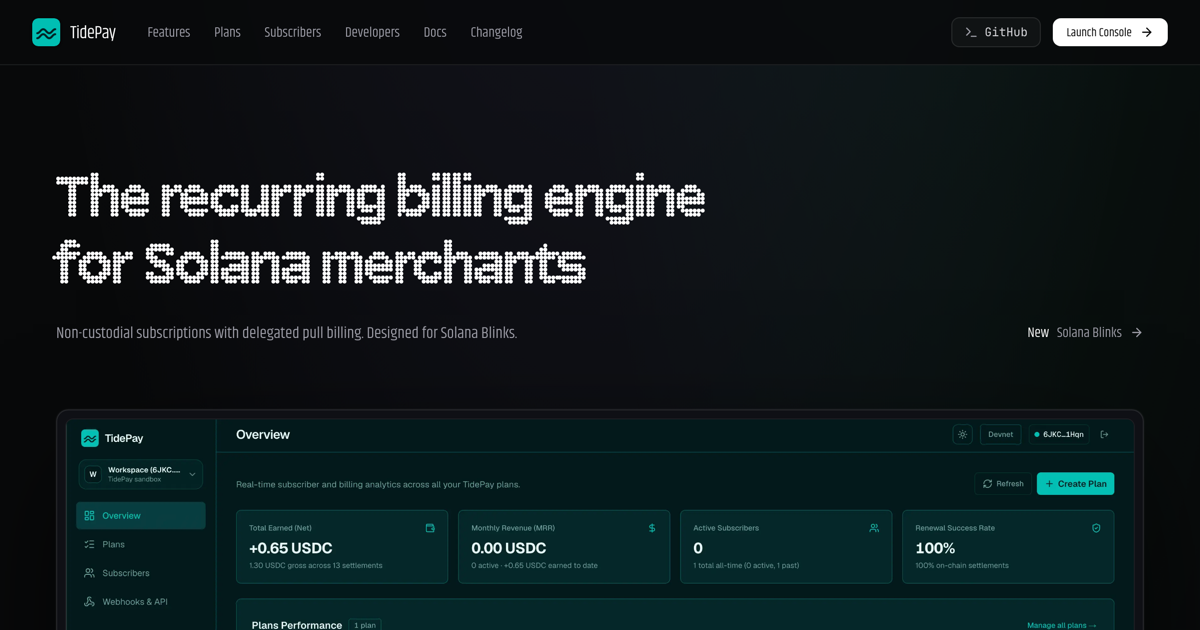
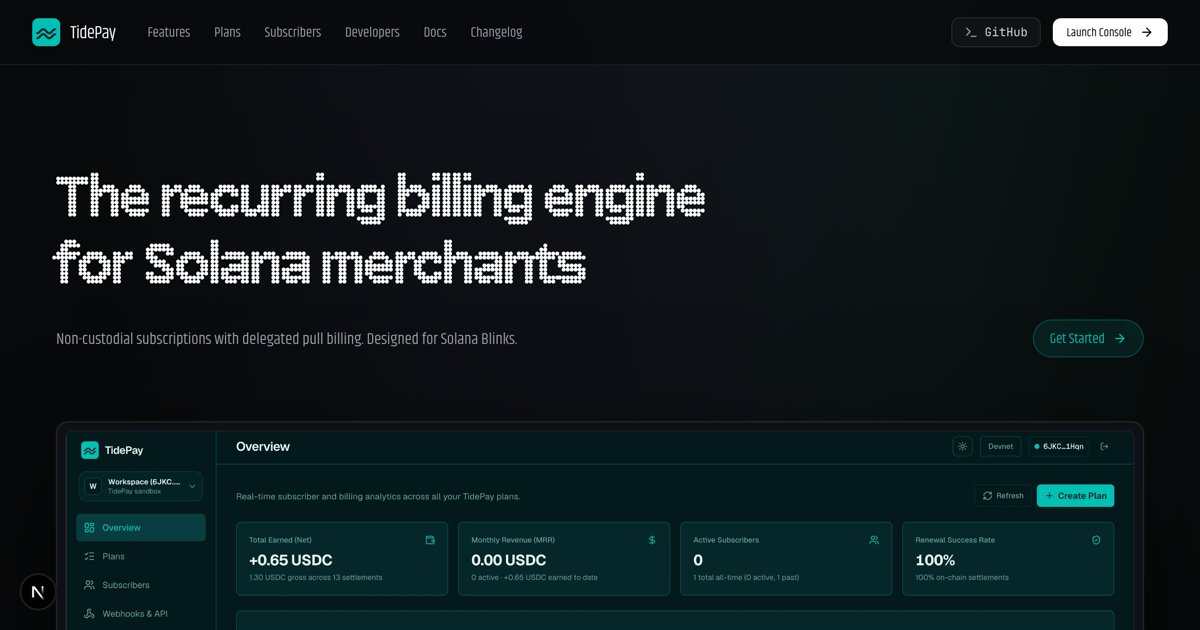
feat: update hero preview call-to-action link to dashboard with styled button

diff --git a/apps/web/src/components/hero-preview.tsx b/apps/web/src/components/hero-preview.tsx
@@ -1,5 +1,6 @@
 import Image from "next/image";
 import { ArrowRight } from "lucide-react";
+import { DASHBOARD_URL } from "@/lib/config";
 
 export function HeroPreview() {
   return (
@@ -17,11 +18,10 @@ export function HeroPreview() {
             Non-custodial subscriptions with delegated pull billing. Designed for Solana Blinks.
           </p>
           <a
-            href="#blinks"
-            className="group inline-flex shrink-0 items-center gap-2 text-sm text-zinc-400 transition hover:text-white"
+            href={DASHBOARD_URL}
+            className="group inline-flex shrink-0 items-center gap-2 rounded-full border border-[#00bfb3]/30 bg-[#00bfb3]/10 px-4 py-2 text-sm font-medium text-[#00bfb3] transition hover:border-[#00bfb3]/60 hover:bg-[#00bfb3]/20 hover:text-white"
           >
-            <span className="font-medium text-white">New</span>
-            <span>Solana Blinks</span>
+            <span>Get Started</span>
             <ArrowRight className="h-3.5 w-3.5 transition-transform group-hover:translate-x-0.5" />
           </a>
         </div>
